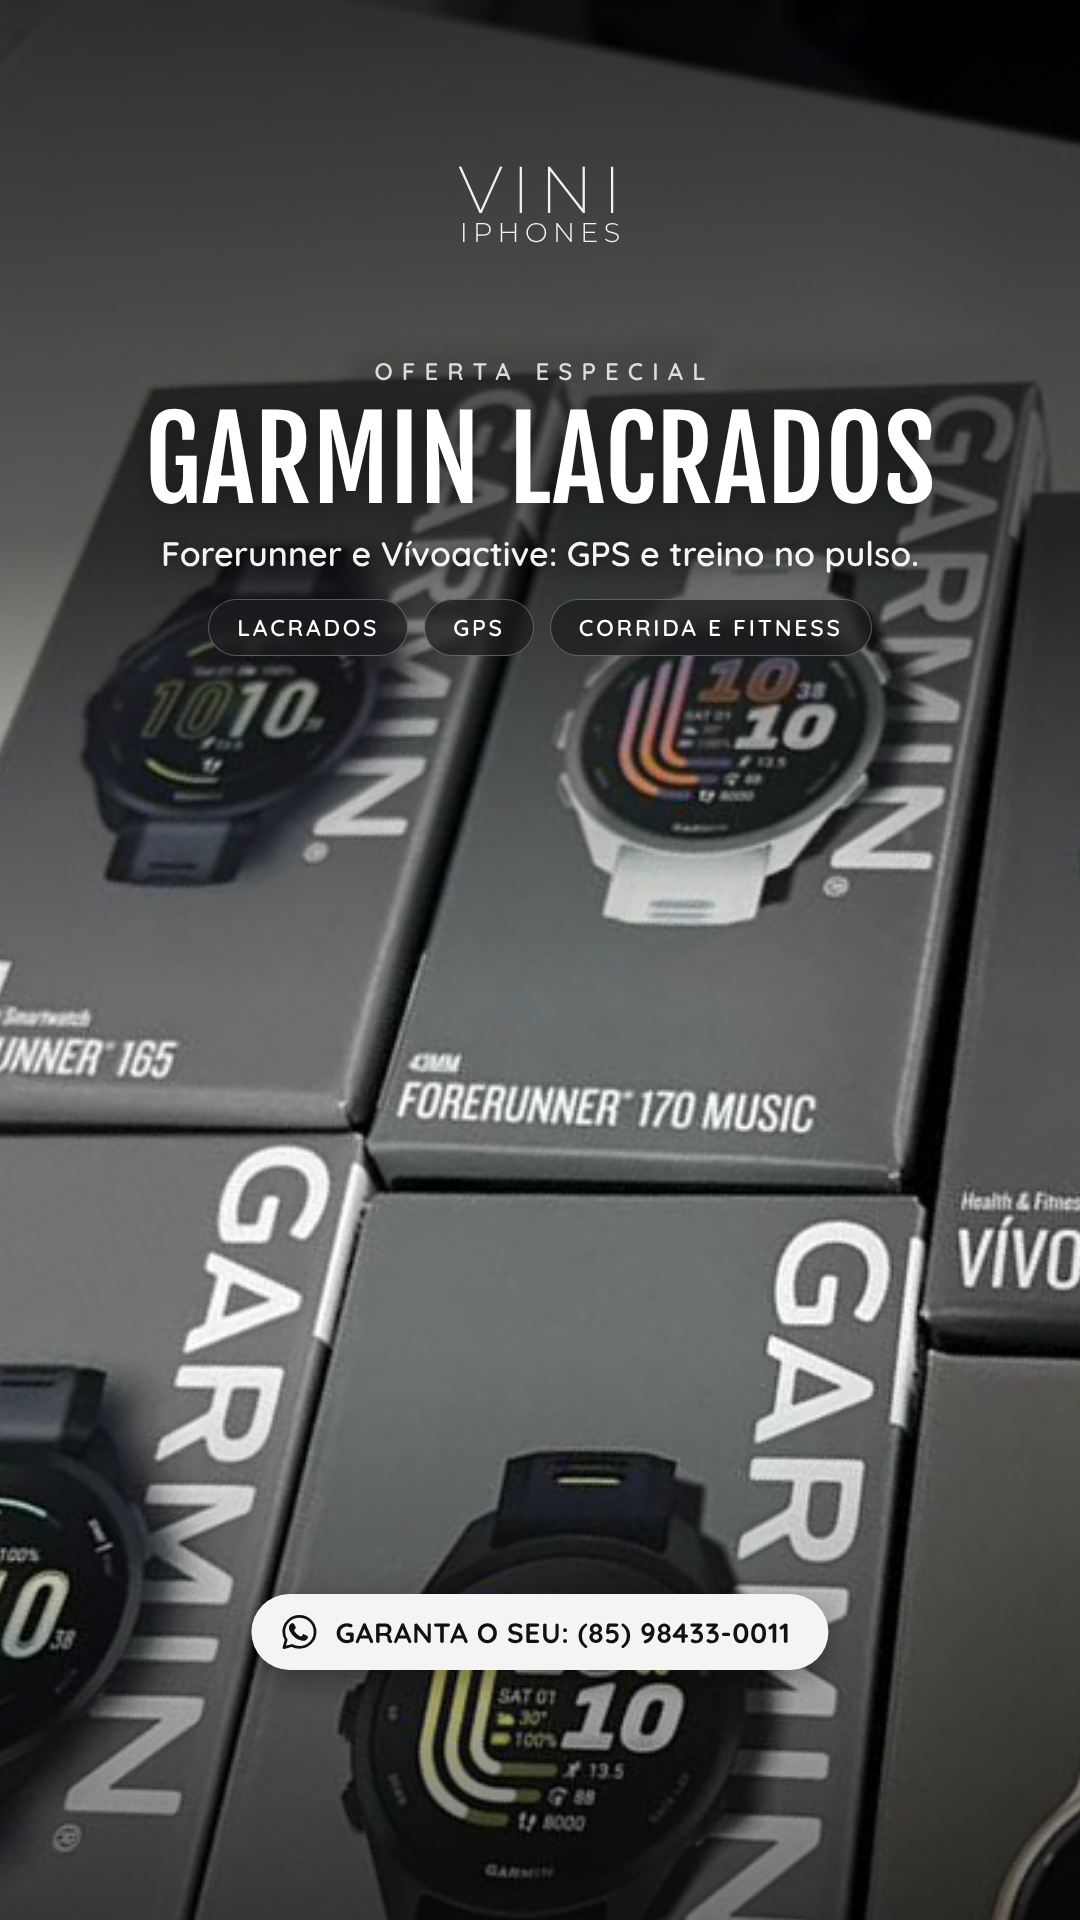
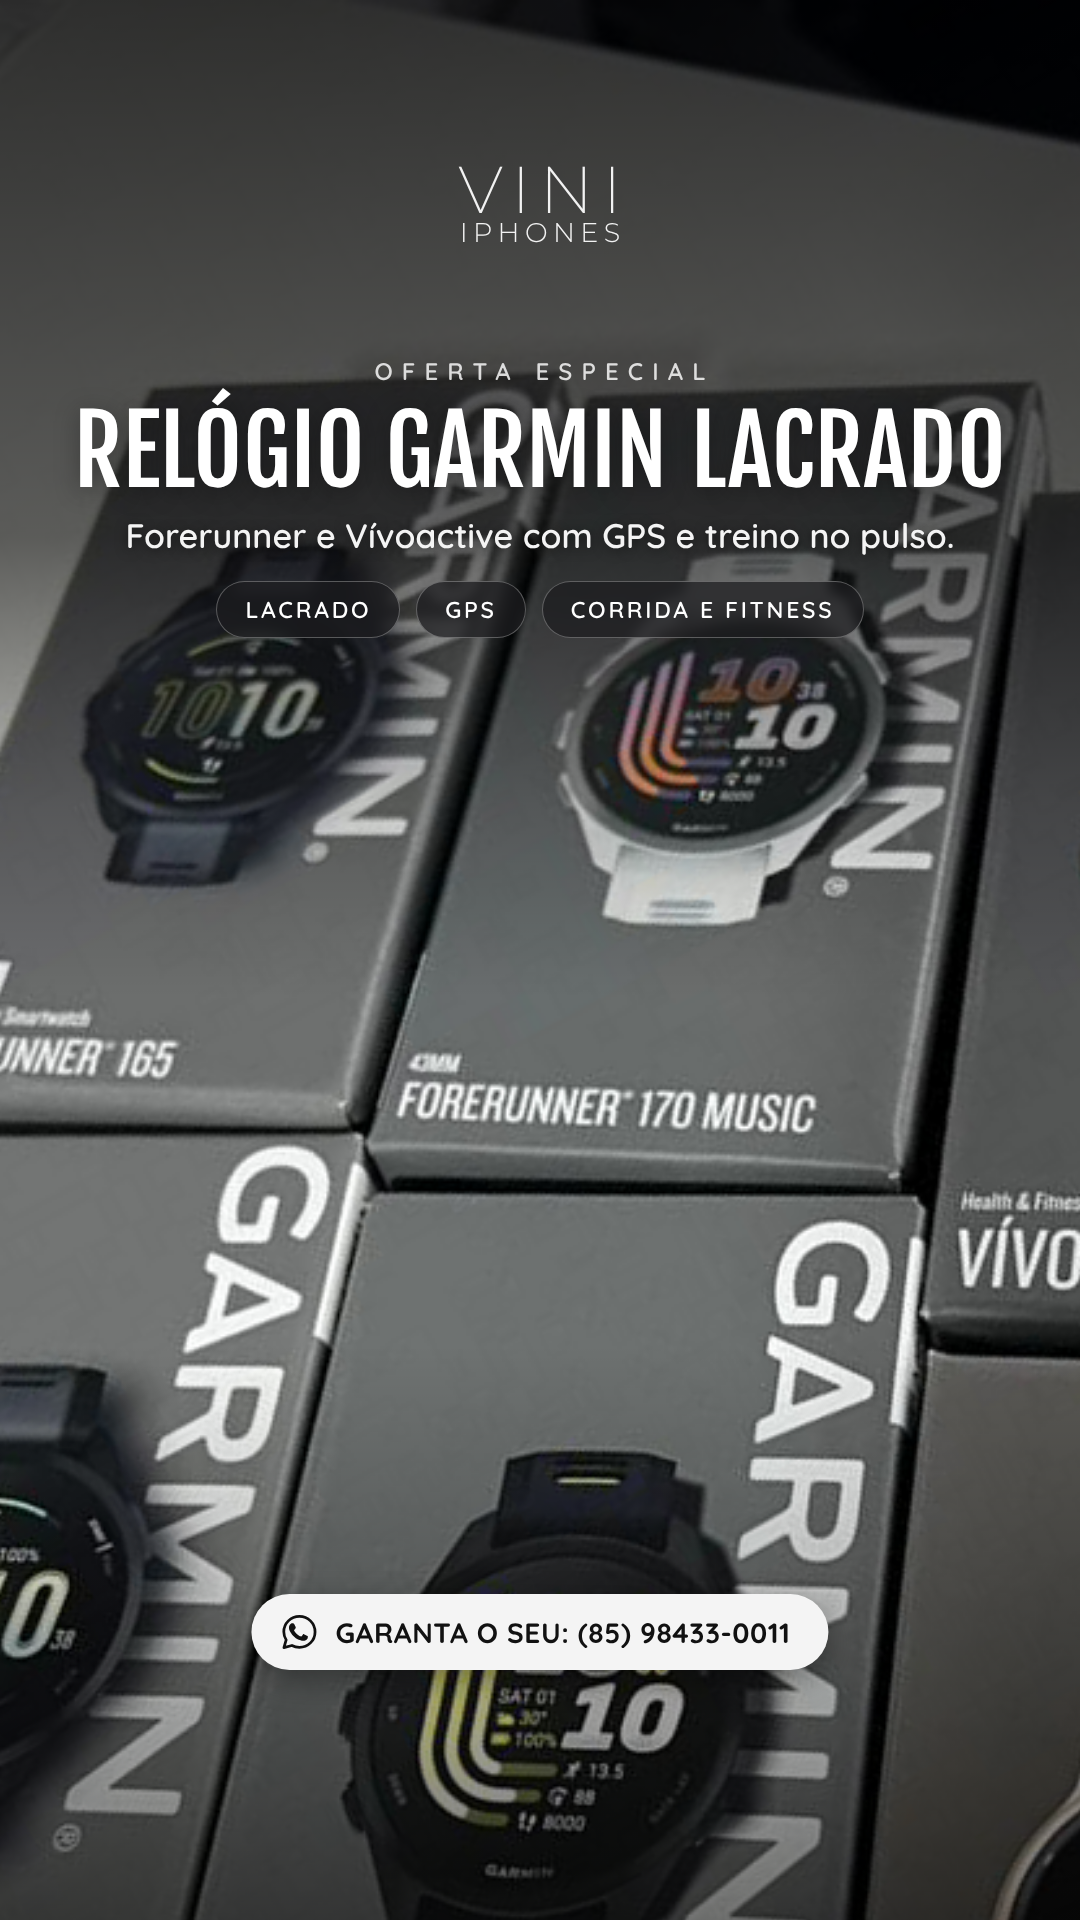
Posts iPhone 17 Pro Max, Cabo e Fonte Originais e Relógio Garmin Lacrado
Cabo e fonte substitui o post de acessórios. Inclui legendas.

Claude-Session: https://claude.ai/code/session_01PhDRCUWGXWPHs6d3AsBF7P

Changed region(s): [[0.0611, 0.1875, 0.9472, 0.3438]]

diff --git a/marketing/posts/legendas.md b/marketing/posts/legendas.md
@@ -118,3 +118,51 @@ Toque em "Enviar mensagem" e veja os modelos disponíveis hoje. 📲
 **Descrição:** Garantia Apple e até 18x no cartão
 **Botão (CTA):** Enviar mensagem (WhatsApp)
 **Objetivo sugerido:** Mensagens (clique para WhatsApp), público em Fortaleza + 15 km, 20 a 50 anos, interesses Apple / iPhone / tecnologia.
+
+---
+
+## iPhone 17 Pro Max 256GB
+
+iPhone 17 Pro Max 256GB lacrado na Vini iPhones 📱🔥
+
+🔵 Azul • 🟠 Laranja • ⚪ Prata
+
+✅ Lacrado
+✅ 256GB de armazenamento
+💳 Parcele em até 18x no crédito*
+
+Escolha a sua cor e garanta o seu antes que acabe!
+
+📲 WhatsApp: (85) 98433-0011
+
+*Verificar taxas.
+
+#iPhone17ProMax #iPhone17Pro #iPhone #Apple #iPhoneLacrado #ViniiPhones #Fortaleza #iPhoneFortaleza
+
+## Cabo e Fonte Originais
+
+Cabo e fonte originais Apple, lacrados ⚡
+
+🔌 Fonte USB-C 20W
+🔌 Cabo USB-C 60W (1m)
+🔌 Cabo USB-C para Lightning (1m)
+
+Original faz diferença: carga segura e mais vida útil para a bateria do seu iPhone.
+
+📲 Peça pelo WhatsApp: (85) 98433-0011
+
+#CaboOriginal #FonteApple #CarregadorOriginal #USBC #Lightning #ViniiPhones #Fortaleza #Apple
+
+## Relógio Garmin Lacrado
+
+Relógio Garmin lacrado ⌚
+
+✅ Forerunner 165
+✅ Forerunner 170 Music
+✅ Vívoactive 5 e 6
+
+GPS, monitor de treino e saúde no pulso. Perfeito pra corrida, academia e dia a dia.
+
+📲 Garanta o seu pelo WhatsApp: (85) 98433-0011
+
+#Garmin #RelogioGarmin #Forerunner #Vivoactive #Smartwatch #Corrida #ViniiPhones #Fortaleza

diff --git a/CLAUDE.md b/CLAUDE.md
@@ -30,7 +30,7 @@ baixo, centralizada sobre a foto real do produto:
 
 Foto: sempre foto real dos produtos, ocupando a arte inteira, escurecida no topo para leitura.
 Posts aprovados (não mexer sem pedido): iPhone 17, iPad 11, MacBook Neo, Perfumes Originais,
-Acessórios Originais Apple, Toda Linha Apple e Garmin Lacrados. Produto visível
+Toda Linha Apple. Em revisão: iPhone 17 Pro Max, Cabo e Fonte Originais, Relógio Garmin Lacrado. Produto visível
 abaixo dos selos. Tom: premium, limpo, sem excesso de elementos, sem emojis na arte.
 
 ## Como gerar posts
